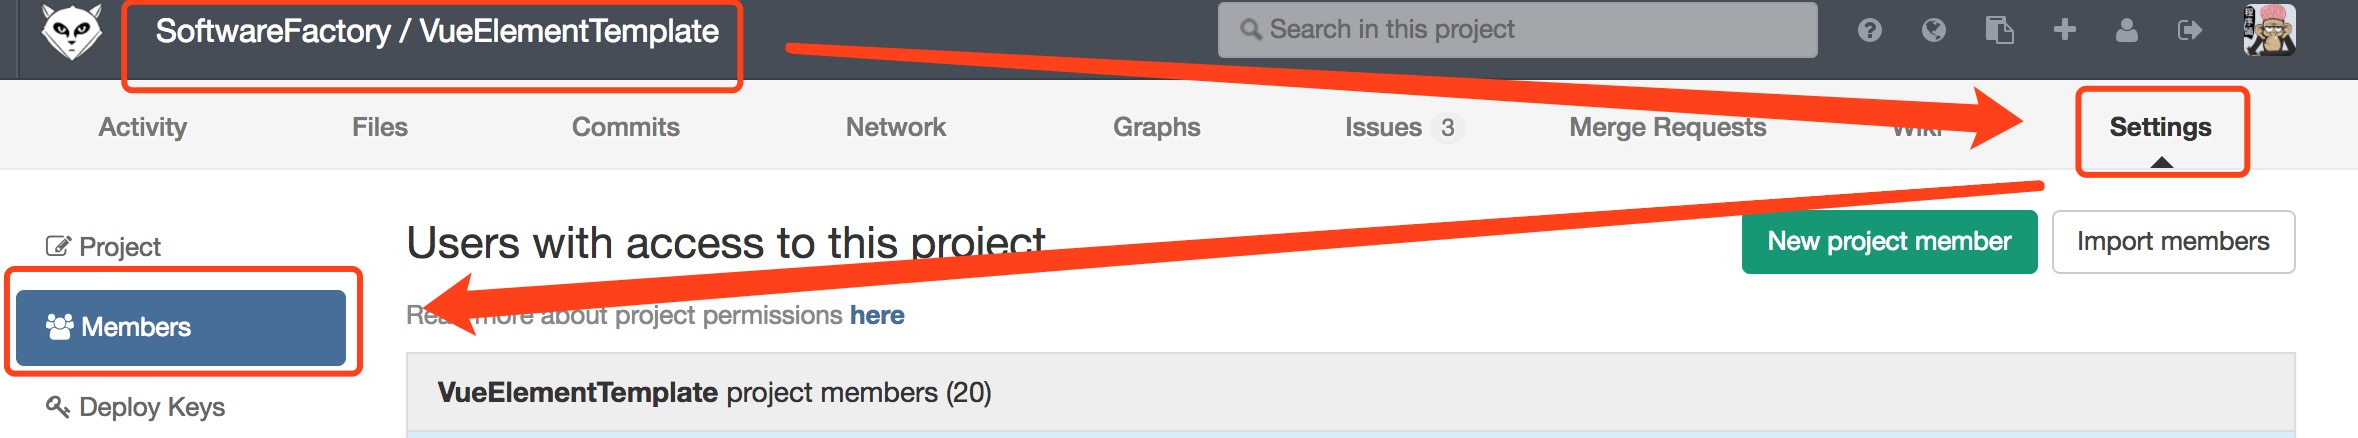
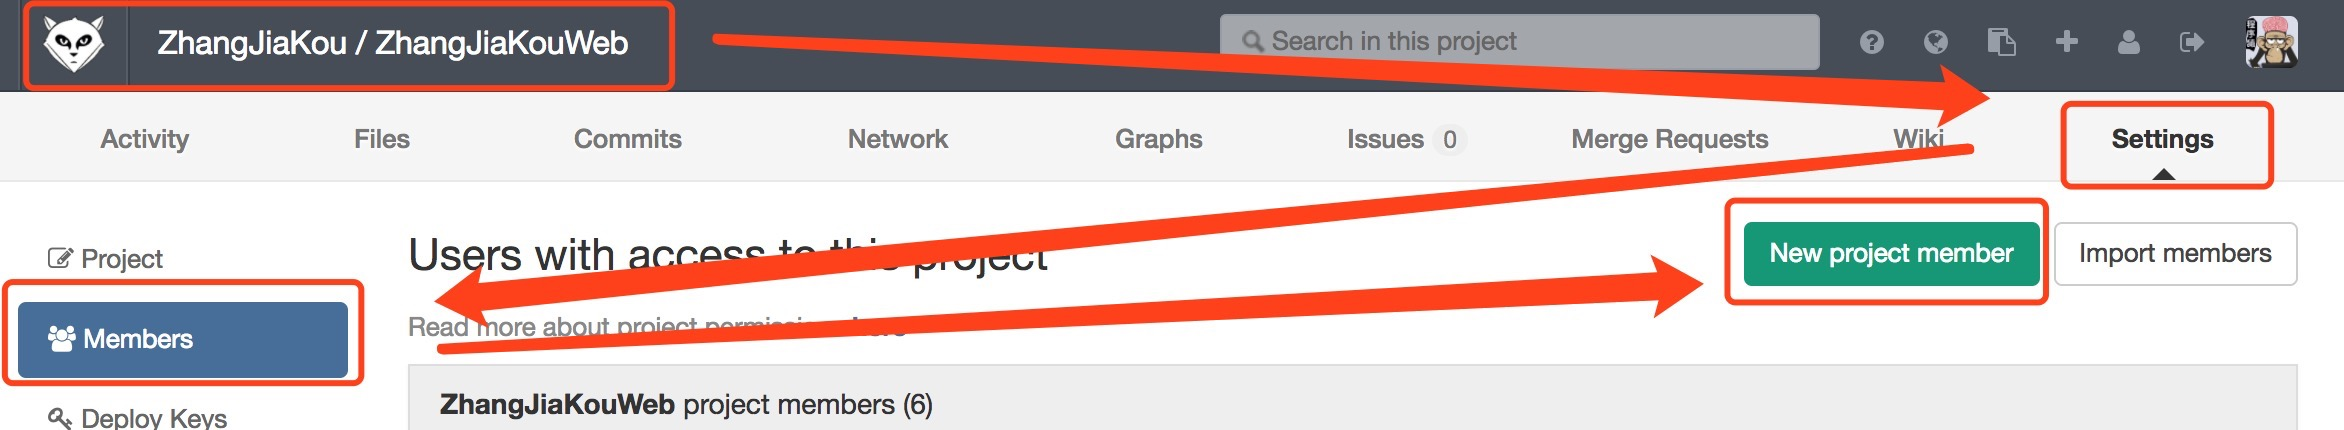
ElementUI目录结构

diff --git a/webTips/ElementUI-VueProjectInit.md b/webTips/ElementUI-VueProjectInit.md
@@ -21,12 +21,12 @@
 git clone [项目克隆地址]
 
 code:
-git clone git@115.28.80.125:softwarefactory/vueelementtemplate.git
+git clone git@115.28.80.125:zhangjiakou/zhangjiakouweb.git
 ```
 
 ![](/assets/ElementUI/ElementUI2.jpeg)
 
-### 1.3 服务启动说明：
+### 1.3 安装依赖：
 
 ```angular2html
 npm install
@@ -37,7 +37,7 @@ npm install
 npm install --registry=https://registry.npm.taobao.org
 ```
 
-### 1.5 服务启动：
+### 1.4 服务启动：
 ```angular2html
 # 启动服务
 npm run dev
@@ -48,11 +48,10 @@ npm run dev
 ### 2.1 目录结构：
 
 ```angular2html
-wechatgame/src/app/main/wegame/     编写代码存放目录
-wechatgame/src/app/navigation/      框架导航配置
-wechatgame/src/app/toolbar/         框架工具栏配置
-wechatgame/bower_components         插件依赖
-wechatgame/node_modules             开发依赖
+zhangjiakouweb/src/views/       编写代码存放目录
+zhangjiakouweb/src/router/      框架导航配置
+zhangjiakouweb/src/lang/        i18n配置
+zhangjiakouweb/node_modules     开发依赖
 ```
 ![](/assets/Fuse/Fuse3.jpeg)
 ![](/assets/Fuse/Fuse19.jpeg)
